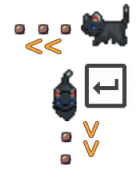
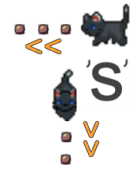
1.0.3 added boss health bar | added different enemies speed and 4 more spawn points

Changed region(s): [[0.6176, 0.3254, 0.9412, 0.6509]]

diff --git a/src/classes.js b/src/classes.js
@@ -26,24 +26,25 @@ const globalConst = {
   tryImgHeight: 28,
   cols: 3,
   // speed and movement properties
-  movement: 3,
+  movement: 4,
   enemySpeed: 1,
-  pickleSpeed: 1.5,
+  pickleSpeed: 1.8,
+  bossSpeed: 1.4,
   bulletSpeed: 4,
   bulletDamage: 1,
   // enemies properties
   demonPoints: 1,
   bossPoints: 100,
   picklePoints: 2,
-  waveTime: 10, //seconds
+  waveTime: 5, //seconds
   enemyHealth: 1,
-  bossHealth: 15,
+  bossHealth: 20,
   // cat properties
-  catHealth: 3,
+  catHealth: 5,
   invincibilityTime: 1500, //milliseconds
   // other properties
   animationName: "glow 1s ease-in-out infinite alternate",
-  shootKey: 17
+  shootKey: 83
 };
 
 class Item {
@@ -208,7 +209,7 @@ class Cat extends Item {
 }
 
 class Enemy extends Item {
-  constructor(width, height, src, points, health) {
+  constructor(width, height, src, points, health, speed) {
     super(0, 0, width, height);
     this.srcx = 0;
     this.srcy = 0;
@@ -216,6 +217,7 @@ class Enemy extends Item {
     this.image.src = src;
     this.points = points;
     this.health = health;
+    this.speed = speed;
   }
   draw(ctx) {
     ctx.drawImage(
@@ -241,29 +243,29 @@ class Enemy extends Item {
       this.srcx = 2 * this.width;
     }
   }
-  moveDown(mov, boundarie) {
-    if (this.y + mov + this.height < boundarie) this.y += mov;
+  moveDown(boundarie) {
+    if (this.y + this.speed + this.height < boundarie) this.y += this.speed;
   }
-  moveUp(mov, boundarie) {
-    if (this.y - mov > boundarie) this.y -= mov;
+  moveUp(boundarie) {
+    if (this.y - this.speed > boundarie) this.y -= this.speed;
   }
-  moveRight(mov, boundarie) {
-    if (this.x + mov + this.width < boundarie) this.x += mov;
+  moveRight(boundarie) {
+    if (this.x + this.speed + this.width < boundarie) this.x += this.speed;
   }
-  moveLeft(mov, boundarie) {
-    if (this.x - mov > boundarie) this.x -= mov;
+  moveLeft(boundarie) {
+    if (this.x - this.speed > boundarie) this.x -= this.speed;
   }
-  move(mov, boundTop, boundRight, boundBottom, boundLeft, target) {
+  move(boundTop, boundRight, boundBottom, boundLeft, target) {
     let { x, y, width, height } = target;
     let xTargetCenter = x + width / 2 - this.width / 2;
     let yTargetCenter = y + height / 2 - this.height / 2;
-    if (this.x < xTargetCenter) this.moveRight(mov, boundRight);
-    if (this.x > xTargetCenter) this.moveLeft(mov, boundLeft);
-    if (this.y < yTargetCenter) this.moveDown(mov, boundBottom);
-    if (this.y > yTargetCenter) this.moveUp(mov, boundTop);
+    if (this.x < xTargetCenter) this.moveRight(boundRight);
+    if (this.x > xTargetCenter) this.moveLeft(boundLeft);
+    if (this.y < yTargetCenter) this.moveDown(boundBottom);
+    if (this.y > yTargetCenter) this.moveUp(boundTop);
   }
-  chooseSpawnPoint(boundRight,boundBottom) {
-    switch (randomNum(4)) {
+  chooseSpawnPoint(boundRight, boundBottom) {
+    switch (randomNum(8)) {
       // top left point
       case 0:
         this.x = -this.width;
@@ -284,13 +286,33 @@ class Enemy extends Item {
         this.x = -this.width;
         this.y = boundBottom + this.height;
         break;
-  
+      // middle top
+      case 4:
+        this.x = boundBottom / 2 - this.width / 2;
+        this.y = -this.height;
+        break;
+      // middle right
+      case 5:
+        this.x = boundRight + this.width;
+        this.y = boundRight / 2 - this.height / 2;
+        break;
+      // middle bottom
+      case 6:
+        this.x = boundBottom / 2 - this.width / 2;
+        this.y = boundBottom + this.height;
+        break;
+      // middle right
+      case 7:
+        this.x = -this.width;
+        this.y = boundRight / 2 - this.height / 2;
+        break;
+
       default:
         break;
     }
   }
-  receiveDamage(damage){
-    return this.health -= damage;
+  receiveDamage(damage) {
+    return (this.health -= damage);
   }
 }
 
@@ -431,6 +453,6 @@ class keyLogger {
   }
 }
 
-function randomNum(max, min="0") {
+function randomNum(max, min = "0") {
   return Math.floor(Math.random() * (max - min) + min);
 }

diff --git a/src/main.js b/src/main.js
@@ -43,7 +43,7 @@ function turnOffInvincibility(cat) {
   }, globalConst.invincibilityTime);
 }
 
-function fillHealthBar(cat, fishArray){
+function fillHealthBar(cat, fishArray) {
   for (let index = 0; index < cat.health; index++) {
     fishArray.push(
       new Fish(
@@ -55,7 +55,7 @@ function fillHealthBar(cat, fishArray){
   }
 }
 
-function createCat(catChoice){
+function createCat(catChoice) {
   let newCat = new Cat(
     globalConst.idleSpriteWidth / globalConst.cols,
     globalConst.idleSpriteHeight,
@@ -77,7 +77,8 @@ function generateEnemies() {
       globalConst.demonSpriteHeight,
       `./images/demon-white-sprite.png`,
       globalConst.demonPoints,
-      globalConst.enemyHealth
+      globalConst.enemyHealth,
+      globalConst.enemySpeed
     );
     enemy.chooseSpawnPoint(canvas.width, canvas.height);
     let enemyP = new Enemy(
@@ -85,7 +86,8 @@ function generateEnemies() {
       globalConst.pickleSpriteHeight,
       `./images/pickleSpriteSmall.png`,
       globalConst.picklePoints,
-      globalConst.enemyHealth
+      globalConst.enemyHealth,
+      globalConst.pickleSpeed
     );
     enemyP.chooseSpawnPoint(canvas.width, canvas.height);
     enemies.push(enemy);
@@ -110,7 +112,7 @@ function drawEnemies() {
     }
     enemy.updateFrame(frames);
     enemy.draw(ctx);
-    enemy.move(globalConst.enemySpeed, 0, canvas.width, canvas.height, 0, cat);
+    enemy.move(0, canvas.width, canvas.height, 0, cat);
   });
 }
 
@@ -131,7 +133,15 @@ function drawBoss() {
 
   boss.updateFrame(frames);
   boss.draw(ctx);
-  boss.move(globalConst.enemySpeed, 0, canvas.width, canvas.height, 0, cat);
+  boss.move(0, canvas.width, canvas.height, 0, cat);
+  // draw boss health bar
+  ctx.fillStyle = "red";
+  ctx.fillRect(
+    boss.x,
+    boss.y - 40,
+    boss.width * (boss.health / globalConst.bossHealth),
+    30
+  );
 }
 
 function drawHairballs() {
@@ -246,7 +256,7 @@ function restart() {
   keylogger = new keyLogger();
   gameTrack.play();
   cat = createCat(catChosen);
-  fillHealthBar(cat, fishBar)
+  fillHealthBar(cat, fishBar);
   start();
 }
 
@@ -287,12 +297,13 @@ function update() {
         globalConst.vacuumSpriteHeight,
         `./images/vacuumSprite2.png`,
         globalConst.bossPoints,
-        globalConst.bossHealth
+        globalConst.bossHealth,
+        globalConst.bossSpeed
       );
       boss.chooseSpawnPoint(canvas.width, canvas.height);
     }
     drawBoss();
-    // to reuse function of collisions, we pass the boss 
+    // to reuse function of collisions, we pass the boss
     //object as a one item array
     detectCollitions(hairballs, [boss]);
     if (boss.health <= 0) winGame();
@@ -321,7 +332,7 @@ function update() {
 window.onload = function() {
   document.getElementById("startBtn").addEventListener("click", event => {
     // prepare objects for canvas
-    fillHealthBar(cat,fishBar)
+    fillHealthBar(cat, fishBar);
     gameTrack.play();
     // disable button to avoid restart of the game
     document.getElementById("startBtn").disabled = true;

diff --git a/game.html b/game.html
@@ -18,7 +18,7 @@
           </article>
           <article class="box align-right appear-right">
             <p>
-              Shoot hairballs with <span>Control</span> <br />
+              Shoot hairballs with <span>S</span> <br />
               direction depends on cat's direction
             </p>
             <img src="./images/shootInstr2.png" alt="moveInstr" />
